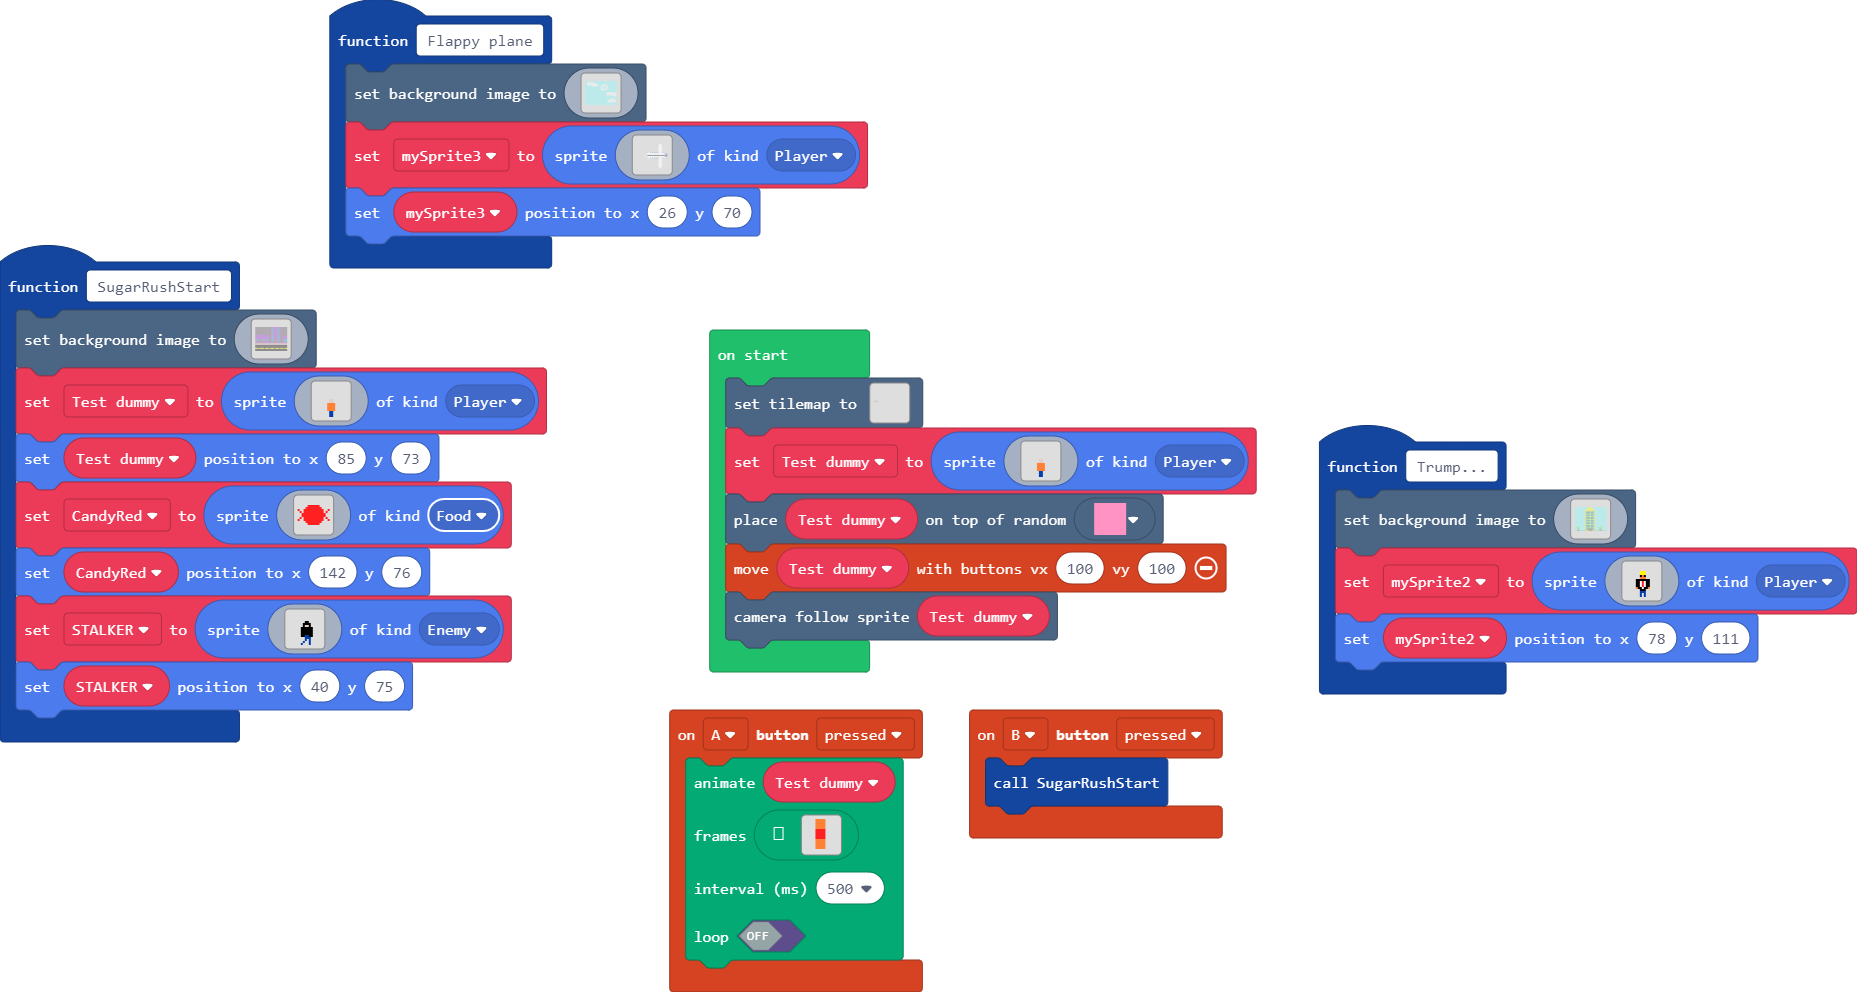
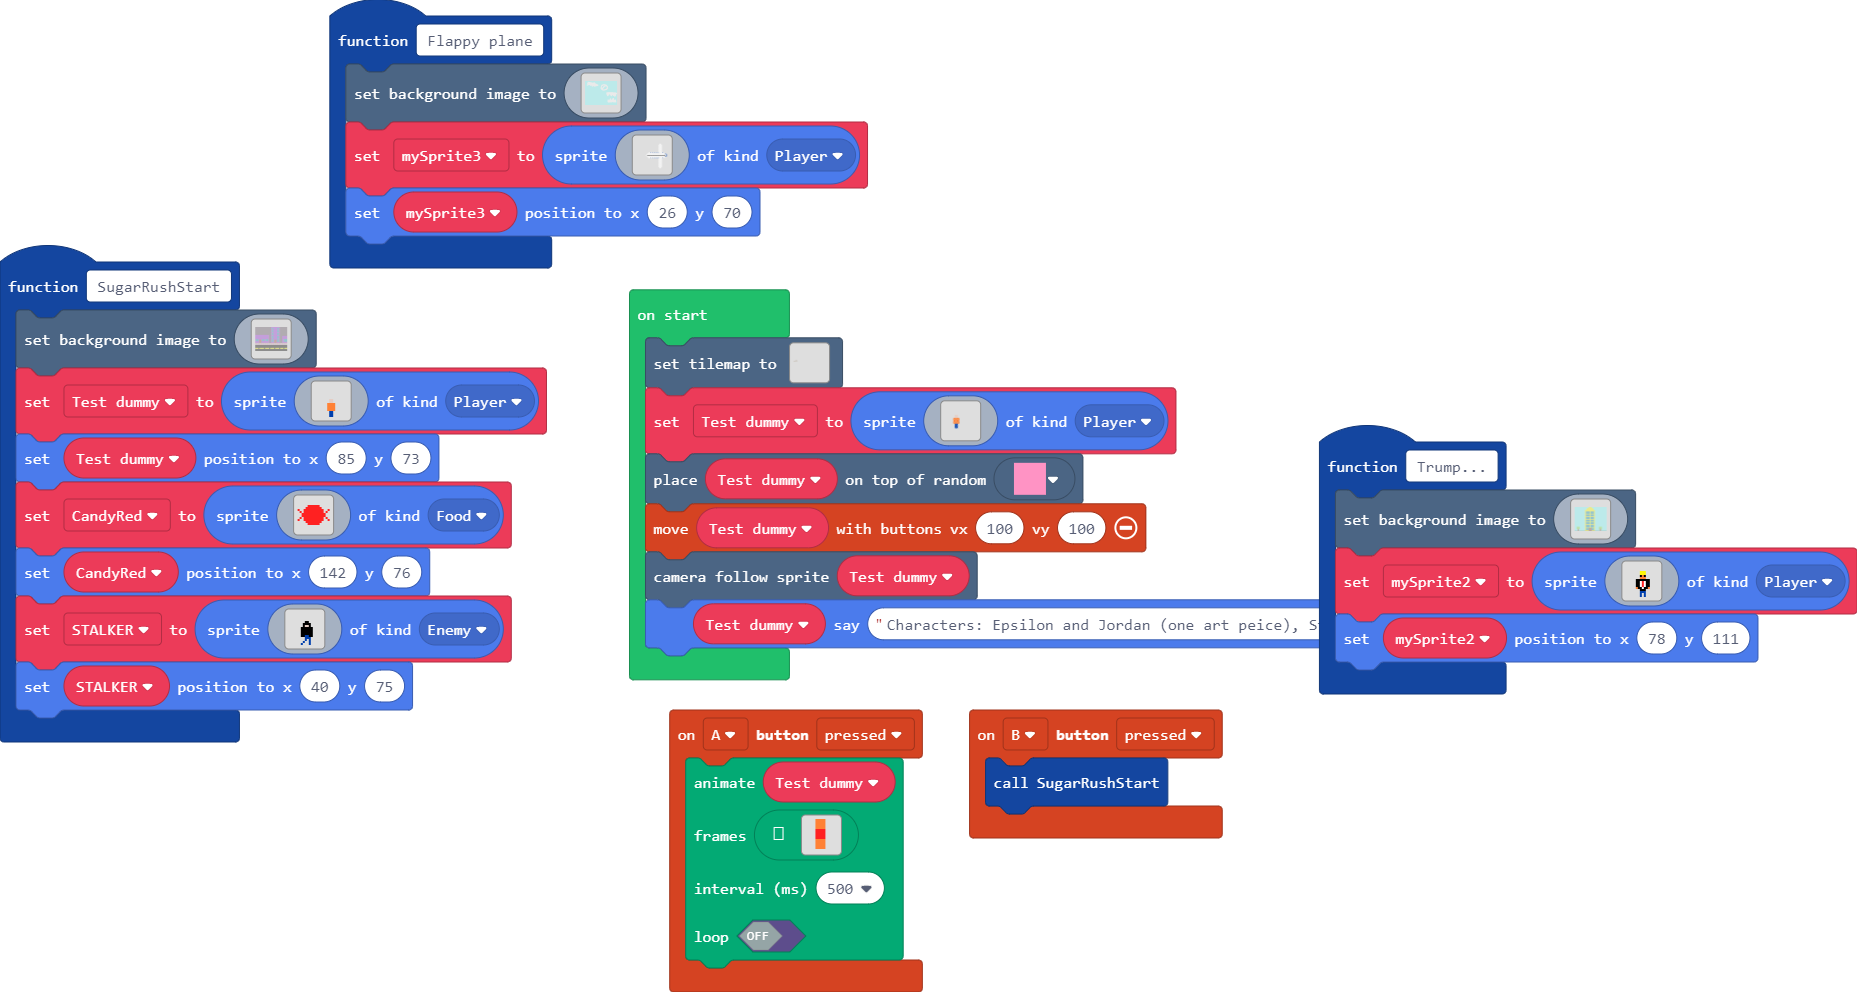
Update main.blocks, main.ts

Changed region(s): [[0.3123, 0.2812, 0.7184, 0.6875]]

diff --git a/main.ts b/main.ts
@@ -649,23 +649,30 @@ tiles.setTilemap(tiles.createTilemap(
             TileScale.Sixteen
         ))
 Test_dummy = sprites.create(img`
-. . . . . . . . . . . . . . . . 
-. . . . . . . . . . . . . . . . 
-. . . . . . . . . . . . . . . . 
-. . . . . . . . . . . . . . . . 
-. . . . . . . . . . . . . . . . 
-. . . . . . . . . . . . . . . . 
-. . . . . . . . . . . . . . . . 
-. . . . . . . d d . . . . . . . 
-. . . . . . . d d . . . . . . . 
-. . . . . . 4 4 4 4 . . . . . . 
-. . . . . . 4 4 4 4 . . . . . . 
-. . . . . . 4 4 4 4 . . . . . . 
-. . . . . . 4 4 4 4 . . . . . . 
-. . . . . . . 8 8 . . . . . . . 
-. . . . . . . 8 8 . . . . . . . 
-. . . . . . . 8 8 . . . . . . . 
+. . . . . . . . . . . . . . . . . . . . . . 
+. . . . . . . . . . . . . . . . . . . . . . 
+. . . . . . . . . . . . . . . . . . . . . . 
+. . . . . . . . . . . . . . . . . . . . . . 
+. . . . . . . . . . . . . . . . . . . . . . 
+. . . . . . . . . . . . . . . . . . . . . . 
+. . . . . . . . . . . . . . . . . . . . . . 
+. . . . . . . d d . . . . . . . . . . . . . 
+. . . . . . . d d . . . . . . . . . . . . . 
+. . . . . . 4 4 4 4 . . . . . . . . . . . . 
+. . . . . . 4 4 4 4 . . . . . . . . . . . . 
+. . . . . . 4 4 4 4 . . . . . . . . . . . . 
+. . . . . . 4 4 4 4 . . . . . . . . . . . . 
+. . . . . . . 8 8 . . . . . . . . . . . . . 
+. . . . . . . 8 8 . . . . . . . . . . . . . 
+. . . . . . . 8 8 . . . . . . . . . . . . . 
+. . . . . . . . . . . . . . . . . . . . . . 
+. . . . . . . . . . . . . . . . . . . . . . 
+. . . . . . . . . . . . . . . . . . . . . . 
+. . . . . . . . . . . . . . . . . . . . . . 
+. . . . . . . . . . . . . . . . . . . . . . 
+. . . . . . . . . . . . . . . . . . . . . . 
 `, SpriteKind.Player)
 tiles.placeOnRandomTile(Test_dummy, myTiles.tile2)
 controller.moveSprite(Test_dummy, 100, 100)
 scene.cameraFollowSprite(Test_dummy)
+Test_dummy.say("Characters: Epsilon and Jordan (one art peice), Stalker, Scientest, Candy, Maps: lab, City")
